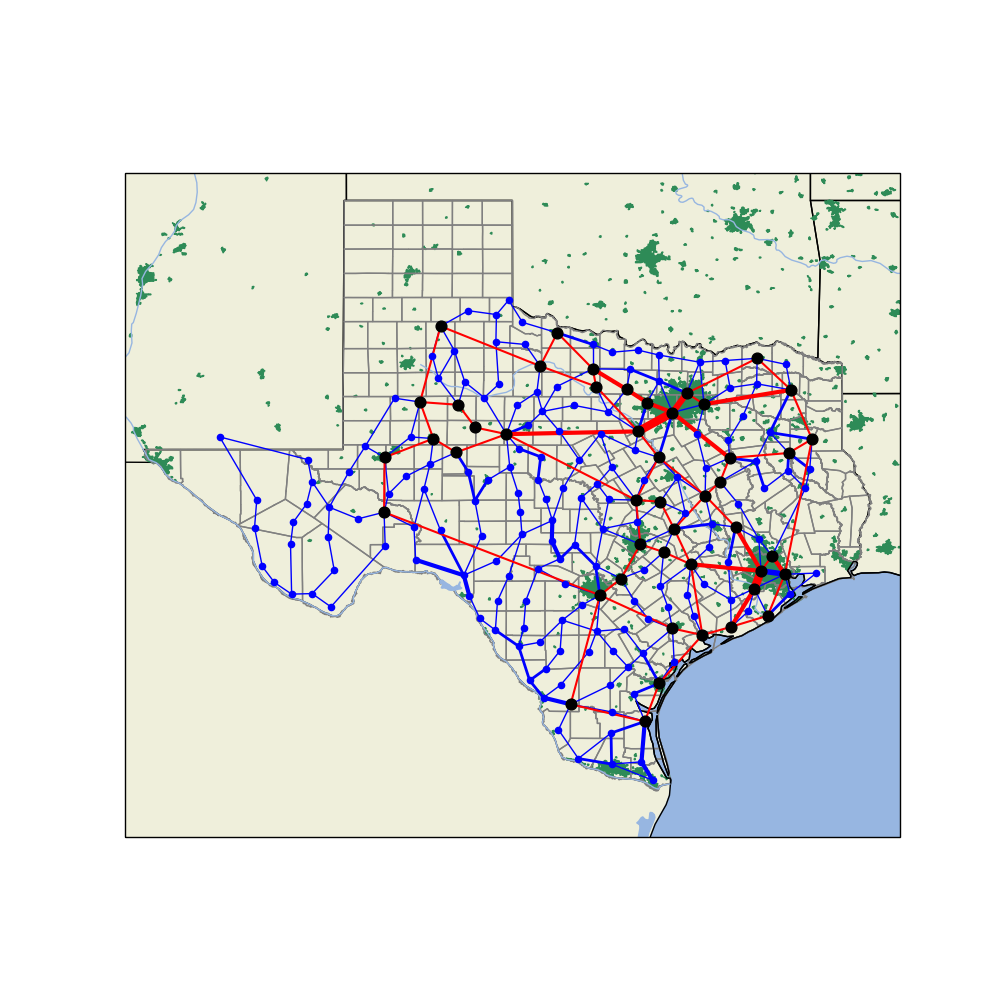
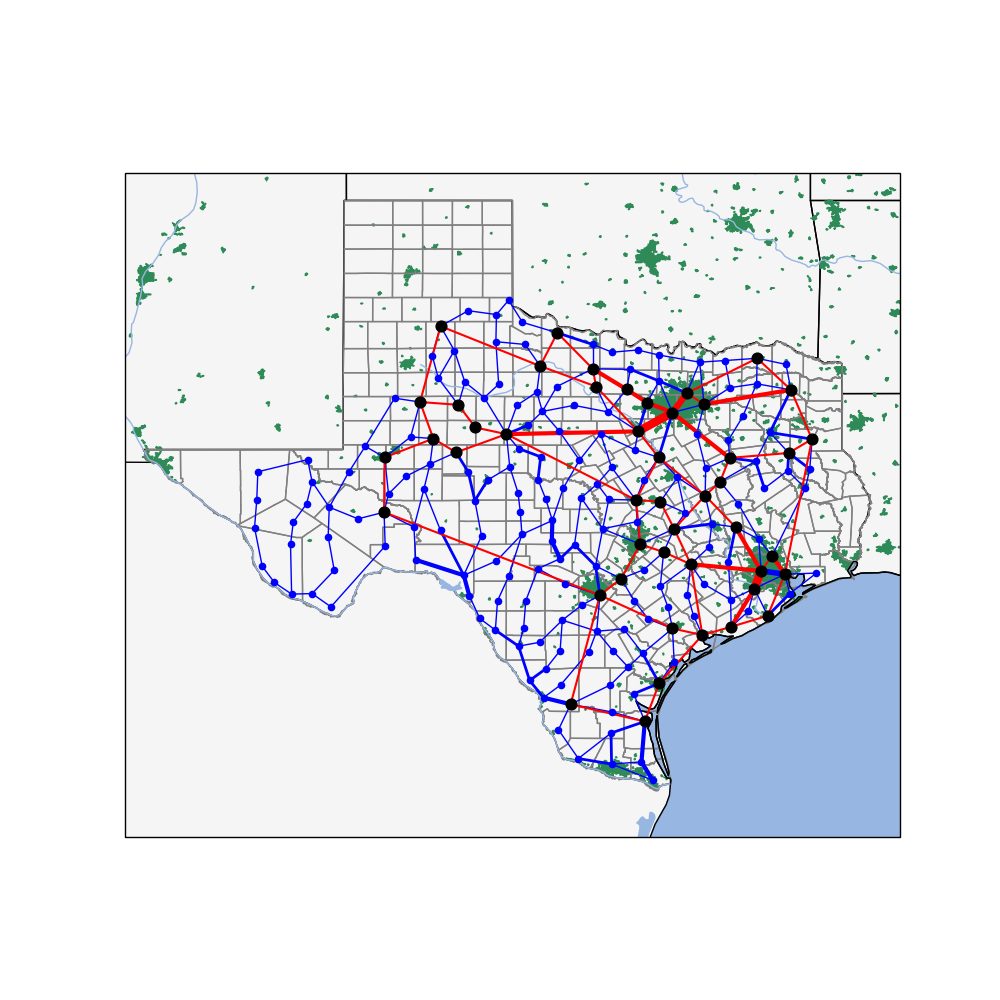
moved one bus, changed the background color

diff --git a/ercot/bulk_system/ercot_map.py b/ercot/bulk_system/ercot_map.py
@@ -9,6 +9,9 @@ import sys
 
 featureScale = '50m'  # 10, 50 0r 110
 urbanColor = 'seagreen'
+landColor = 'whitesmoke'
+#landColor = cfeature.COLORS['land']
+#print (landColor)
 shapePath = 'z:/Documents/ShapeFiles/'
 
 rdr1 = shpreader.Reader(shapePath + 'Texas_County_Boundaries/Texas_County_Boundaries.shp')
@@ -23,7 +26,7 @@ URBAN = cfeature.ShapelyFeature(urban, ccrs.PlateCarree())
 plt.figure(figsize=(10, 10))
 
 ax = plt.axes(projection=ccrs.PlateCarree())
-ax.add_feature(cfeature.LAND.with_scale(featureScale))
+ax.add_feature(cfeature.LAND.with_scale(featureScale), facecolor=landColor)
 #ax.add_feature(cfeature.BORDERS.with_scale(featureScale))
 ax.add_feature(cfeature.STATES.with_scale(featureScale))
 ax.add_feature(cfeature.OCEAN.with_scale(featureScale))
